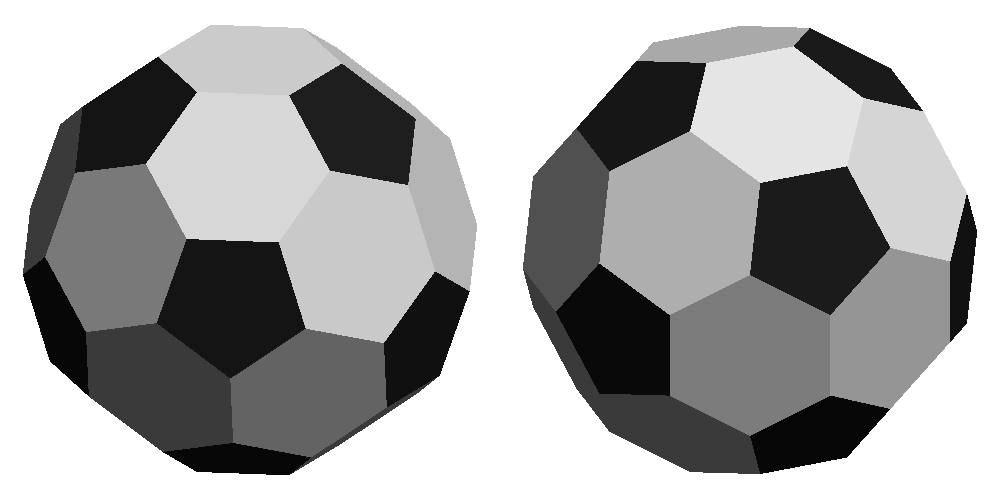
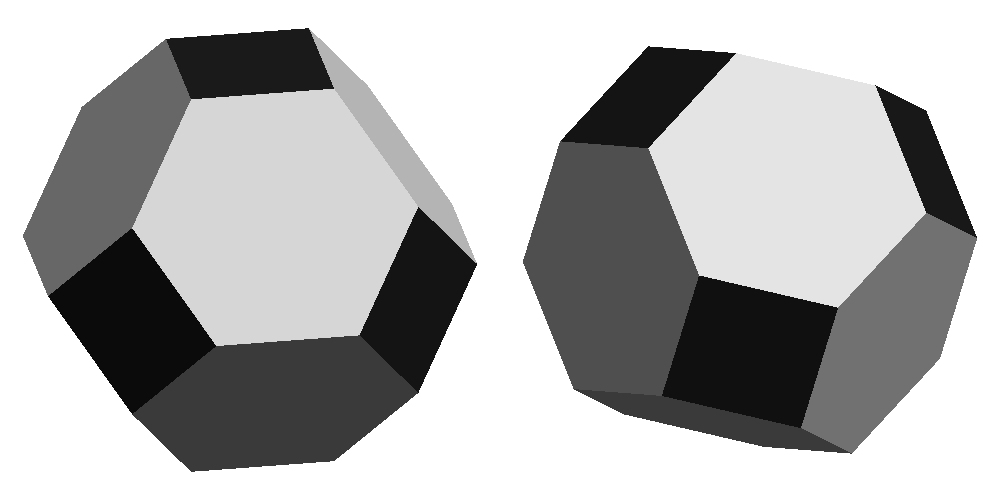
Ball: truncated octahedron cut from a 16 mm cube
The 10 mm football was far too small and hard to print. ball.py now makes
a truncated octahedron (cube side = width across squares, --cube, default
16), printed on a square face; preview colours the squares. READMEs: a
ball of 15–17 mm works best.

Claude-Session: https://claude.ai/code/session_01RTdHhNZVYtn4SHH7Kkgogr

diff --git a/ball.py b/ball.py
@@ -1,12 +1,19 @@
-"""Ball for the Maze³ mazes: a truncated icosahedron (12 pentagons,
-20 hexagons), placed for printing on a hexagonal face.
+"""Ball for the Maze³ mazes: a truncated octahedron (6 squares, 8 hexagons)
+cut from a cube, placed for printing on a square face.
 
-Size: a ball smaller than about 8 mm gets stuck in the 4.8 mm panes of the
-wall grids, while the passages let through up to about 16.5 mm.
+The shape is a cube intersected with an octahedron (|x| + |y| + |z| ≤ ¾ of
+the cube side, from the centre): the edges and corners of the cube are cut
+away, and the square faces stay in the middles of the cube's faces, turned
+45°. It rolls well and prints without supports — the side squares are
+vertical and the hexagons are about 55° from horizontal.
+
+Size: the cube side is the width across opposite squares (16 mm by default);
+across opposite hexagons it is √3/2 ≈ 0.87 of that, corner to corner
+√5/2 ≈ 1.12. A ball of 15–17 mm works best in the default mazes.
 
 Usage:
-    python ball.py              # 10 mm diameter
-    python ball.py --diameter 9
+    python ball.py              # cut from a 16 mm cube
+    python ball.py --cube 15
 """
 import argparse
 import itertools
@@ -16,43 +23,38 @@ import numpy as np
 import trimesh
 
 
-def truncated_icosahedron(diameter):
-    phi = (1 + 5 ** 0.5) / 2
-    base = [(0, 1, 3 * phi), (1, 2 + phi, 2 * phi), (phi, 2, phi ** 3)]   # edge = 2
+def truncated_octahedron(cube):
+    """Vertices: all permutations of (0, ±1, ±2), scaled so that the square
+    faces (at ±2) are `cube` apart."""
     pts = set()
-    for x, y, z in base:
-        for p in [(x, y, z), (y, z, x), (z, x, y)]:                      # even permutations
-            for s in itertools.product((1, -1), repeat=3):
-                pts.add(tuple(round(a * b, 12) for a, b in zip(p, s)))
-    V = np.array(sorted(pts))
-    assert len(V) == 60
-    ball = trimesh.convex.convex_hull(V)
-    ball.apply_scale(diameter / 2 / np.linalg.norm(V[0]))
-    return ball
+    for p in itertools.permutations((0, 1, 2)):
+        for s in itertools.product((1, -1), repeat=3):
+            pts.add(tuple(float(a * b) for a, b in zip(p, s)))
+    V = np.array(sorted(pts)) * (cube / 4)
+    assert len(V) == 24
+    return trimesh.convex.convex_hull(V)
 
 
 def main():
     ap = argparse.ArgumentParser(description="Ball for the Maze³ mazes")
-    ap.add_argument("--diameter", type=float, default=10.0,
-                    help="circumscribed sphere diameter in mm (default 10)")
+    ap.add_argument("--cube", type=float, default=16.0,
+                    help="side of the cube it is cut from = width across squares, mm (default 16)")
     ap.add_argument("--out", default="models")
     args = ap.parse_args()
 
-    ball = truncated_icosahedron(args.diameter)
+    ball = truncated_octahedron(args.cube)
     sizes = [len(np.unique(ball.faces[f])) for f in ball.facets]
-    assert sizes.count(5) == 12 and sizes.count(6) == 20, sizes
+    assert sizes.count(4) == 6 and sizes.count(6) == 8, sizes
 
-    # lay it on a hexagon: its normal should point down
-    hexagon = ball.facets[sizes.index(6)]
-    n = ball.face_normals[hexagon[0]]
-    ball.apply_transform(trimesh.geometry.align_vectors(n, [0, 0, -1]))
+    # already standing on a square face (normal −z); just put it on the bed
     ball.apply_translation(-ball.bounds[0] * [0, 0, 1] - ball.centroid * [1, 1, 0])
 
     e = ball.edges_unique_length
-    print("watertight:", ball.is_watertight, "| pentagons:", sizes.count(5), "| hexagons:", sizes.count(6))
+    print("watertight:", ball.is_watertight, "| squares:", sizes.count(4), "| hexagons:", sizes.count(6))
     print("edge mm:", round(min(e[e > 1e-6]), 3), "| size mm:", np.round(ball.extents, 2),
+          "| corner to corner mm:", round(2 * np.linalg.norm(ball.vertices - ball.centroid, axis=1).max(), 2),
           "| PLA mass ~g:", round(ball.volume / 1000 * 1.24, 2))
-    name = f"ball_{args.diameter:g}mm"
+    name = f"ball_{args.cube:g}mm"
     os.makedirs(args.out, exist_ok=True)
     for ext in ("stl", "3mf"):
         ball.export(os.path.join(args.out, f"{name}.{ext}"))

diff --git a/tools/preview.py b/tools/preview.py
@@ -3,7 +3,7 @@
 Usage:
     python tools/preview.py models/lab4_1.stl --paths mazes/lab4_1.txt -o images/lab4_1.png
     python tools/preview.py models/lab4_1.stl --cell 2 3 4 -o images/cell.png
-    python tools/preview.py models/ball_10mm.stl --ball -o images/ball.png
+    python tools/preview.py models/ball_16mm.stl --ball -o images/ball.png
 """
 import argparse
 import os
@@ -51,7 +51,7 @@ def main():
     ap.add_argument("-o", "--out", required=True)
     ap.add_argument("--paths", help="overlay the maze paths from a file")
     ap.add_argument("--cell", nargs=3, type=int, help="show a single cell (coordinates 1..N)")
-    ap.add_argument("--ball", action="store_true", help="colour the pentagons black")
+    ap.add_argument("--ball", action="store_true", help="ball: colour the smallest faces (squares) dark")
     ap.add_argument("--size", type=int, default=700, help="side of one panel in pixels")
     args = ap.parse_args()
 
@@ -59,8 +59,9 @@ def main():
     S = args.size
     if args.ball:
         cols = np.tile([0.92, 0.92, 0.92], (len(m.faces), 1))
-        for f in m.facets:
-            if len(np.unique(m.faces[f])) == 5:
+        nverts = [len(np.unique(m.faces[f])) for f in m.facets]
+        for f, k in zip(m.facets, nverts):
+            if k == min(nverts):
                 cols[f] = [0.12, 0.12, 0.12]
         panels = [render(m, 25, -55, size=S, colors=cols), render(m, -60, 30, size=S, colors=cols)]
     elif args.cell:

diff --git a/README.pl.md b/README.pl.md
@@ -57,10 +57,11 @@ a potem przechylaj, obracaj i przewracaj kostkę, aż wypadnie drugim.
 
 ![Piłka](images/ball.png)
 
-`ball.py` tworzy dwudziestościan ścięty (piłkę nożną) o średnicy 10 mm,
-drukowany na sześciokątnej ściance. Rozsądny zakres to 8–10 mm: mniejsza
-kulka klinuje się w okienkach kratek (4,8 mm), a przejścia przepuszczają
-do ok. 16,5 mm. Pasuje też kulka łożyskowa albo koralik.
+`ball.py` tworzy ośmiościan ścięty wycięty z sześcianu o boku 16 mm:
+krawędzie i narożniki sześcianu ścięte, zostaje 6 kwadratów i 8
+sześciokątów. Drukuje się na kwadratowej ściance bez podpór i dobrze się
+toczy. Najlepiej działa kulka 15–17 mm; 10 mm to zdecydowanie za mało.
+Wielkość sześcianu ustawia `--cube`.
 
 ## Węzeł
 
@@ -89,7 +90,7 @@ pip install -r requirements.txt
 
 python maze_cubed.py mazes/lab4_1.txt     # labirynt → models/lab4_1.stl, .3mf
 python maze_cubed.py --size 4 4 4         # pełna kratownica bez przejść
-python ball.py                            # piłka → models/ball_10mm.stl, .3mf
+python ball.py                            # piłka → models/ball_16mm.stl, .3mf
 python tools/knot.py mazes/lab4_1.txt     # typ węzła drogi
 python tools/preview.py models/lab4_1.stl --paths mazes/lab4_1.txt -o images/lab4_1.png
 ```

diff --git a/README.md b/README.md
@@ -56,10 +56,10 @@ one, then tilt, turn and flip the cube until it comes out of the other.
 
 ![Ball](images/ball.png)
 
-`ball.py` makes a truncated icosahedron (a football) of 10 mm diameter,
-printed on a hexagonal face. A good range is 8–10 mm: a smaller ball gets
-stuck in the 4.8 mm windows of the wall grids, while the passages let
-through up to about 16.5 mm. A steel ball bearing or a bead works too.
+`ball.py` makes a truncated octahedron cut from a 16 mm cube: the cube's
+edges and corners cut away, leaving 6 squares and 8 hexagons. It prints on
+a square face without supports and rolls well. A ball of 15–17 mm works
+best; 10 mm is clearly too small. The cube size is set with `--cube`.
 
 ## The knot
 
@@ -85,7 +85,7 @@ pip install -r requirements.txt
 
 python maze_cubed.py mazes/lab4_1.txt     # maze → models/lab4_1.stl, .3mf
 python maze_cubed.py --size 4 4 4         # full lattice, no passages
-python ball.py                            # ball → models/ball_10mm.stl, .3mf
+python ball.py                            # ball → models/ball_16mm.stl, .3mf
 python tools/knot.py mazes/lab4_1.txt     # knot type of the route
 python tools/preview.py models/lab4_1.stl --paths mazes/lab4_1.txt -o images/lab4_1.png
 ```
